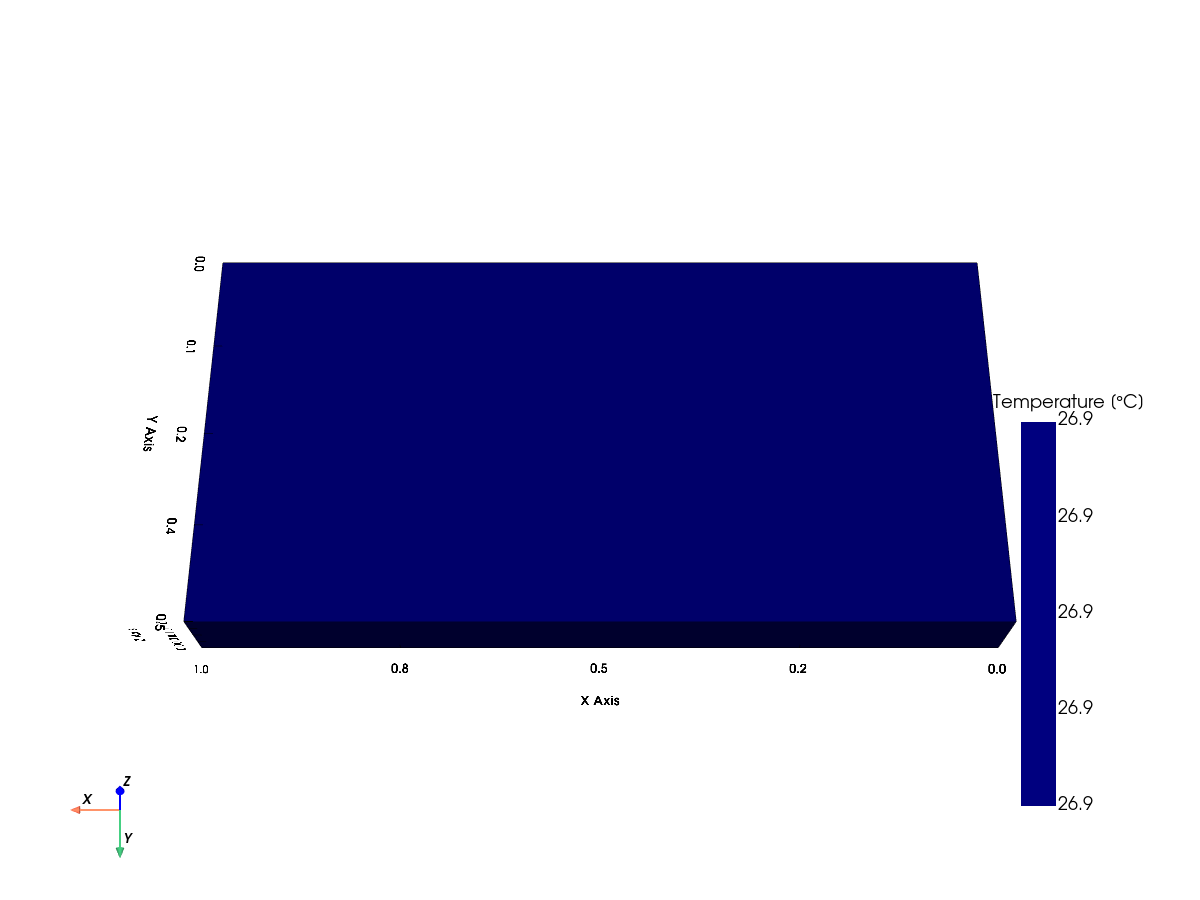
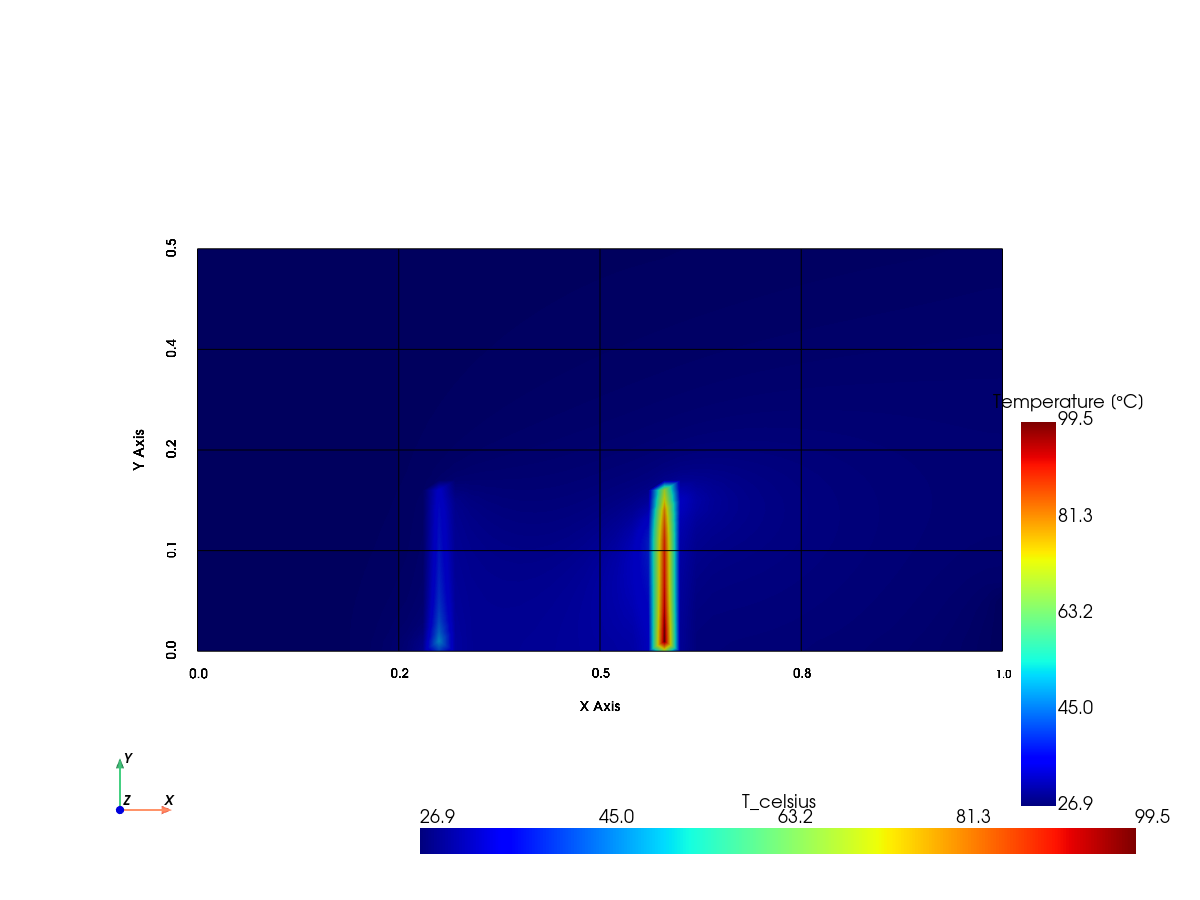
Add temperature visualization with single slice contour
- Update visualize_temperature to match velocity visualization style
- Single slice at Z mid-plane with XY view and parallel projection
- Temperature range: 26.85-99.45°C (inlet 27°C, max near heated baffle 99°C)
- Add --update-temperature-only flag for individual temperature image update
- No streamlines for temperature (only contour display)

diff --git a/circuitboardcooling/circuitboardcooling/__main__.py b/circuitboardcooling/circuitboardcooling/__main__.py
@@ -525,29 +525,46 @@ def visualize_temperature(mesh: pv.DataSet, output_path: Path) -> None:
 
     plotter = pv.Plotter(off_screen=True, window_size=[1200, 900])
 
+    # Enable parallel projection
+    plotter.enable_parallel_projection()
+
     # Convert temperature to Celsius
-    t_kelvin = mesh["T"]
+    if "T" in mesh.point_data:
+        t_kelvin = mesh.point_data["T"]
+    else:
+        t_kelvin = mesh.cell_data["T"]
+        
     t_celsius = t_kelvin - 273.15
     mesh["T_celsius"] = t_celsius
 
-    # Add mesh with temperature coloring
+    # Get temperature range
+    t_min = t_celsius.min()
+    t_max = t_celsius.max()
+
+    # Add single slice at mid-plane to show internal temperature
+    bounds = mesh.bounds
+    z_mid = (bounds[4] + bounds[5]) / 2
+    
+    slice_mesh = mesh.slice(normal="z", origin=[0, 0, z_mid])
     plotter.add_mesh(
-        mesh,
+        slice_mesh,
         scalars="T_celsius",
         cmap="jet",
         show_edges=False,
-        scalar_bar_args={
-            "title": "Temperature [°C]",
-            "vertical": True,
-            "position_x": 0.85,
-            "position_y": 0.1,
-        },
+        clim=[t_min, t_max],
+        opacity=1.0,
     )
 
-    # Set view
-    plotter.camera_position = "iso"
-    plotter.camera.azimuth = 45
-    plotter.camera.elevation = 30
+    # Add scalar bar
+    plotter.add_scalar_bar(
+        title="Temperature [°C]",
+        vertical=True,
+        position_x=0.85,
+        position_y=0.1,
+    )
+
+    # Set XY plane view (top view)
+    plotter.view_xy()
 
     # Add axes
     plotter.add_axes()
@@ -725,6 +742,11 @@ def main() -> int:
         help="Update velocity.png only using existing VTK file (provide path to VTK file)",
     )
     parser.add_argument(
+        "--update-temperature-only",
+        type=str,
+        help="Update temperature.png only using existing VTK file (provide path to VTK file)",
+    )
+    parser.add_argument(
         "--convert-vtk-only",
         type=str,
         help="Convert OpenFOAM results to VTK format only (provide path to case directory)",
@@ -759,6 +781,20 @@ def main() -> int:
             output_path = Path(__file__).parent.parent / "velocity.png"
             visualize_velocity(mesh, output_path)
             logger.info("Velocity image updated successfully!")
+            return 0
+
+        # Update temperature image only
+        if args.update_temperature_only:
+            logger.info("Updating temperature.png from: %s", args.update_temperature_only)
+            vtk_file = Path(args.update_temperature_only)
+            if not vtk_file.exists():
+                msg = f"VTK file not found: {vtk_file}"
+                raise FileNotFoundError(msg)
+            
+            mesh = pv.read(str(vtk_file))
+            output_path = Path(__file__).parent.parent / "temperature.png"
+            visualize_temperature(mesh, output_path)
+            logger.info("Temperature image updated successfully!")
             return 0
 
         # Convert to VTK only
